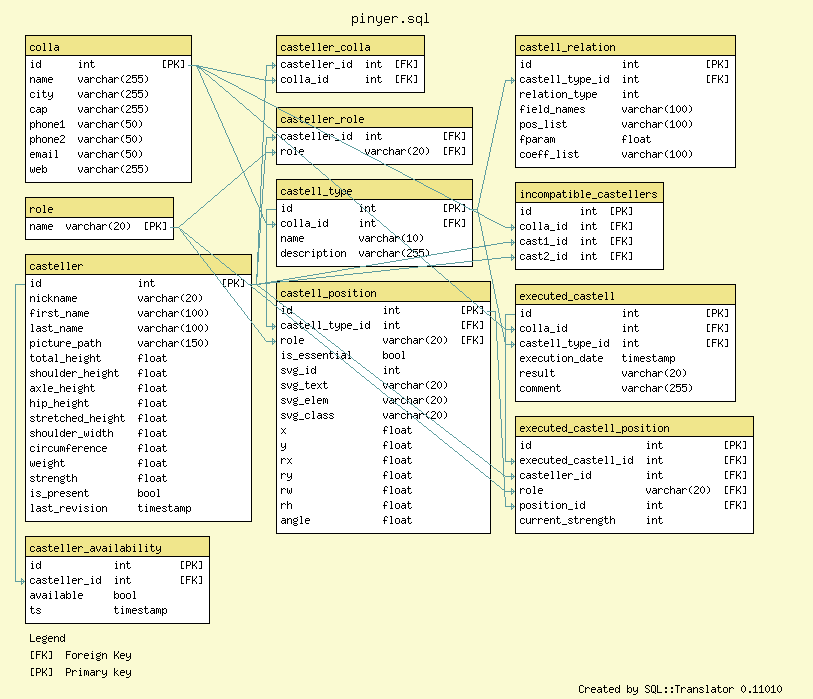
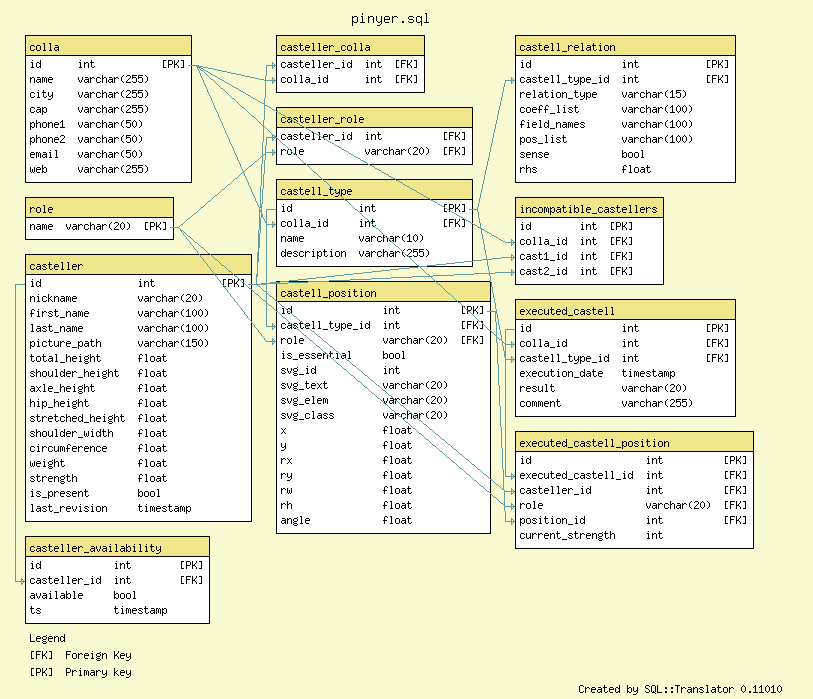
redefined database structure for relations

diff --git a/python/ineqs.py b/python/ineqs.py
@@ -14,34 +14,38 @@ def var(casteller_id, pos_id):
         vars[casteller_id, pos_id] = v
         return v
 
-def sum_vars(pos_id, castellers_in_position, prop = None, operator = " + ", coeff = 1):
+def sum_vars(pos_id, castellers_in_position, field_name = None, operator = " + ", coeff = 1):
     """
     make the sum of all casteller indicator variables that involve the position pos.
-    If prop is None, use coeff(=1) as a coefficient; 
-    else, use casteller[prop] if this property exists in the dictionary casteller.
-    If prop does not happen to be a key of the casteller dictionary, 
-    we directly use the value of prop as a coefficient.
+    If field_name is None, use coeff(=1) as a coefficient; 
+    else, use casteller[field_name] if this property exists in the dictionary casteller,
+    If field_name does not happen to be a key of the casteller dictionary, 
+    we directly use its value as a coefficient.
     """
     ineq = ''
-    first_term = True
+    firstTerm = True
     for casteller in castellers_in_position[pos_id]:
-        if first_term:
-            first_term = False
+        if firstTerm:
+            firstTerm = False
         else:
             ineq += operator
-        if prop is not None:
-            if prop not in casteller: # then we use it as a constant coefficient
-                ineq += str(coeff * prop) + ' '
+
+        if field_name is not None:
+            if field_name not in casteller: # then we use it as a constant coefficient
+                ineq += str(coeff * field_name) + ' '
             else:
-                ineq += str(coeff * casteller[prop]) + ' '
+                ineq += str(coeff * casteller[field_name]) + ' '
         ineq += var(casteller['id'], pos_id)  + ' '
     return ineq
 
-def combine_vars(from_pos_id, to_pos_id, castellers_in_position, prop):
+def combine_vars(from_pos_id, to_pos_id, castellers_in_position, field_names):
     """
-    make the difference of two sets of casteller indicator variables, with coefficient given by prop
+    make the difference of two sets of casteller indicator variables.
+    The coefficient of the first set is field_names[0], 
+    the coefficient of the second set is field_names[1].
     """
-    return sum_vars(from_pos_id, castellers_in_position, prop) + " - " + sum_vars(to_pos_id, castellers_in_position, prop, " - ")
+    return sum_vars(from_pos_id, castellers_in_position, field_names[0]) + \
+        " - " + sum_vars(to_pos_id, castellers_in_position, field_names[1], " - ")
 
 
 def objective_function(castellers_in_position):
@@ -57,7 +61,6 @@ def objective_function(castellers_in_position):
             else:
                 out += ' + '
             out += str(obj[v]) + ' ' + str(v)
-#    f.write(out)
     return obj
     
 
@@ -144,7 +147,7 @@ def relation_ineqs(relations, castellers_in_position, aux_data, ineqs, obj):
             label = "fill_" + str(fpi) + "_" + str(tpi) + ": "
             ineqs.append(label + sum_vars(fpi, castellers_in_position) + " - " + sum_vars(tpi, castellers_in_position, None, " - ") + " >= 0")
 
-        if rel['relation_type'] == 1: 
+        if rel['relation_type'] == 'zero_or_tol': 
             #
             # If y_tpi = 1, then the constraint 
             #   0 <= x <= tolerance
@@ -172,30 +175,39 @@ def relation_ineqs(relations, castellers_in_position, aux_data, ineqs, obj):
             #   x + M y_tpi <= tolerance + M
             #   x - M y_tpi >= -M
             #
-            x = combine_vars(fpi, tpi, castellers_in_position, rel['field_names'])
+            field_names = rel['field_names'].split('~');
+            if len(field_names) != 2:
+                raise RuntimeError('should have exactly two field names in "' + rel['field_names'] + '"')
+            x = combine_vars(fpi, tpi, castellers_in_position, field_names)
             M = 1000000
             label = rel['field_names'] + "_" + str(fpi) + "_" + str(tpi) + ": "
-            ineqs.append(label + x + " + " + sum_vars(tpi, castellers_in_position, M) + " <= " + str(M + rel['fparam']))
-            ineqs.append(label + x + " " + sum_vars(tpi, castellers_in_position, -M, "   ") + " >= " + str(-M))
+            ineqs.append(label + x + " + " + sum_vars(tpi, castellers_in_position, M) + \
+                             " <= " + str(M + rel['rhs']))
+            ineqs.append(label + x + " " + sum_vars(tpi, castellers_in_position, -M, "   ") + \
+                             " >= " + str(-M))
             #
             # Next, we update the objective function to minimize
             # (value of field_names at from_pos) - (value of field_names at to_pos).
             # Since we maximize the objective function, we must flip the signs.
             #
             for casteller in castellers_in_position[fpi]:
-                obj[var(casteller['id'], fpi)] -= casteller[rel['field_names']]
+                obj[var(casteller['id'], fpi)] -= casteller[field_names[0]]
             for casteller in castellers_in_position[tpi]:
-                obj[var(casteller['id'], tpi)] += casteller[rel['field_names']]
+                obj[var(casteller['id'], tpi)] += casteller[field_names[1]]
 
-        elif rel['relation_type'] == 2: 
+        elif rel['relation_type'] == 'val_tol': 
             # Ma can support segon:
             # value of field_names at position is at least fparam
+            if rel['field_names'].find('~') > -1:
+                raise RuntimeError('Expected only one property in ' + rel['field_names']) 
             label = rel['field_names'] + "_" + str(fpi) + ": "
             ineqs.append(label + sum_vars(fpi, castellers_in_position, rel['field_names']) + \
                              " >= " + str(rel['fparam']))
 
-        elif rel['relation_type'] == 3: 
-            # sum of values is at most fparam in absolute value
+        elif rel['relation_type'] == 'abs_tol': 
+            # sum of values is at most rhs in absolute value
+            if rel['field_names'].find('~') > -1:
+                raise RuntimeError('Expected only one property in ' + rel['field_names']) 
             if len(pos_list) > 0:
                 label = rel['field_names'] + "_" + rel['pos_list'] + ': '
                 ineq_str = ''
@@ -211,8 +223,8 @@ def relation_ineqs(relations, castellers_in_position, aux_data, ineqs, obj):
                     pos_ct = pos_ct + 1
                     ineq_str += sum_vars(pos, castellers_in_position, rel['field_names'], ' + ', coeff)
                 target_width = len(pos_list) * aux_data['avg_shoulder_width']
-                ineqs.append(label + ineq_str + " >= " + str(target_width - rel['fparam']))
-                ineqs.append(label + ineq_str + " <= " + str(target_width + rel['fparam']))
+                ineqs.append(label + ineq_str + " >= " + str(target_width - rel['rhs']))
+                ineqs.append(label + ineq_str + " <= " + str(target_width + rel['rhs']))
 
         else:
             print "implement me!"

diff --git a/python/relations.py b/python/relations.py
@@ -3,9 +3,11 @@ from local_config import tolerances
 def ring_relations(rd, position_in_ring, relations):
     # the default values for all relations created in this function
     rel0 = dict([('pos_list', None), \
-                     ('relation_type', 1), \
+                     ('coeff_list', None), \
+                     ('relation_type', 'zero_or_tol'), \
                      ('field_names', 'shoulder_height'), \
-                     ('fparam', tolerances['height']), \
+                     ('sense', True), \
+                     ('rhs', tolerances['height']), \
                      ('pos_type', None)])
 
     # first, the relations between rengles de mans and rengles de vents
@@ -41,9 +43,9 @@ def ring_relations(rd, position_in_ring, relations):
                 relations.append(rel1) # quesito
 
     # next, the relations for the shoulder_width
-    rel0['relation_type'] = 3
+    rel0['relation_type'] = 'abs_tol'
     rel0['field_names'] = 'shoulder_width'
-    rel0['fparam'] = tolerances['width']
+    rel0['rhs'] = tolerances['width']
     rel0['pos_type'] = 'p'
     for j in range(2*rd['period']):
         for i in range(rd['start_n_in_slice'], rd['end_n_in_slice']+1):
@@ -54,14 +56,21 @@ def ring_relations(rd, position_in_ring, relations):
             relations.append(rel)
     return relations
 
-def baixos_relations(cd, position_in_portacrosses, relations):
+def baixos_relations(bd, position_in_portacrosses, relations):
     # the default values for all relations created in this function
     rel0 = dict([('pos_list', None), \
+                     ('coeff_list', '1_-1'), \
                      ('relation_type', 1), \
-                     ('field_names', 'shoulder_height'), \
-                     ('fparam', tolerances['height']), \
+                     ('field_names', 'shoulder_height~axle_height'), \
+                     ('sense', True), \
+                     ('rhs', tolerances['delta_height_c_b']), \
+                     ('fparam2', tolerances['delta_height_c_b_tol']), \
                      ('pos_type', None)])
-    # first, the relations between 
+    # first, the relations between the baix and the crosses
+    for i in range(bd['number']):
+        rel = rel0.copy()
+        rel['pos_list'] = position_in_portacrosses[i,1]['svg_id']
+        
     return relations
 
 def relations_svg(relations, coo_of):
@@ -73,13 +82,13 @@ def relations_svg(relations, coo_of):
             tpi = int(pos_list[1])
         else:
             tpi = fpi
-        if rel['relation_type'] == 1:
+        if rel['relation_type'] == 'zero_or_tol':
             relations_svg += '<path class="' + rel['pos_type'] + '" d="M' + \
                 str(coo_of[fpi][0]) + ',' + \
                 str(coo_of[tpi][1]) + 'L' + \
                 str(coo_of[fpi][0]) + ',' + \
                 str(coo_of[tpi][1]) + '"/>'
-        elif rel['relation_type'] == 3:
+        elif rel['relation_type'] == 'abs_tol':
             relations_svg += '<path class="' + rel['pos_type'] + '" d="M' + \
                 str(coo_of[fpi][0]) + ',' + \
                 str(coo_of[fpi][1])

diff --git a/python/db_interaction.py b/python/db_interaction.py
@@ -118,7 +118,7 @@ def get_relations(db, castell_type_id):
     res = c.fetchall()
     ans = []
     for row in res:
-        new_ans = dict(zip(('id', 'castell_type_id', 'relation_type', 'field_names', 'pos_list', 'fparam', 'coeff_list'), row))
+        new_ans = dict(zip(('id', 'castell_type_id', 'relation_type', 'coeff_list', 'field_names', 'pos_list', 'sense', 'rhs'), row))
         for ind in ('id', 'castell_type_id', 'relation_type'):
             new_ans[ind] = int(new_ans[ind])
         ans.append(new_ans)
@@ -132,14 +132,15 @@ def write_relations(db, castell_type_id, relations):
     vals = []
 #    print relations
     for rel in relations:
-        vals.append((3,  rel['pos_list'], \
+        vals.append((castell_type_id, \
                          rel['relation_type'], \
-                         rel['field_names'], 
-                         rel['fparam']))
-    query = """insert into castell_relation (castell_type_id, pos_list, relation_type, field_names, fparam) 
-         values (%s, %s, %s, %s, %s)"""
-#    print query
-#    print vals
+                         rel['coeff_list'], \
+                         rel['field_names'], \
+                         rel['pos_list'], \
+                         rel['sense'], \
+                         rel['rhs']))
+    query = """insert into castell_relation (castell_type_id, relation_type, coeff_list, field_names, pos_list, sense, rhs) 
+         values (%s, %s, %s, %s, %s, %s, %s)"""
     c.executemany(query, vals)
     
 
@@ -154,12 +155,13 @@ def get_incompatible_castellers(db, colla_id):
 
 def get_avg_shoulder_width(db, colla_id):
     """ 
-    the average shoulder width of the colla
+    the average shoulder width of all members in the colla
+    that are present
     """
     c = db.cursor()
     c.execute("""
 select avg(shoulder_width)
 from casteller
 left join casteller_colla on casteller_colla.casteller_id=casteller.id
-where casteller_colla.colla_id = %s""", colla_id)
+where casteller_colla.colla_id = %s and is_present = true""", colla_id)
     return c.fetchall()[0][0]

diff --git a/python/create_pinya.py b/python/create_pinya.py
@@ -256,8 +256,11 @@ def portacrosses_group(pcd, i, svg, svg_id, pipcg, coo_of):
     return [svg, svg_id, pipcg, coo_of]
 
 def portacrosses(pcd, svg, svg_id, coo_of):
+    """
+    make as many groups of portacrosses as the symmetry says to
+    """
     position_in_portacrosses = dict()
-    for i in range(pcd['number']): # make as many groups of portacrosses as the symmetry says to
+    for i in range(pcd['number']): 
         alpha = (i * 2.0 + 1.0) * pi / pcd['number']
         x = pcd['radius'] * cos(alpha)
         y = pcd['radius'] * sin(alpha)

diff --git a/python/local_config.py b/python/local_config.py
@@ -25,4 +25,8 @@ DoLogging = True
 
 # the tolerance in height between successive mans, vents, and pinya,
 # and in width between adjacent pinya in the same ring
-tolerances = dict([('height', 5), ('width', 6)])
+tolerances = dict([('height', 5), \
+                       ('width', 6), \
+                       ('delta_height_c_b', 5), \
+                       ('delta_height_c_b_tol', 5) \
+                       ])
